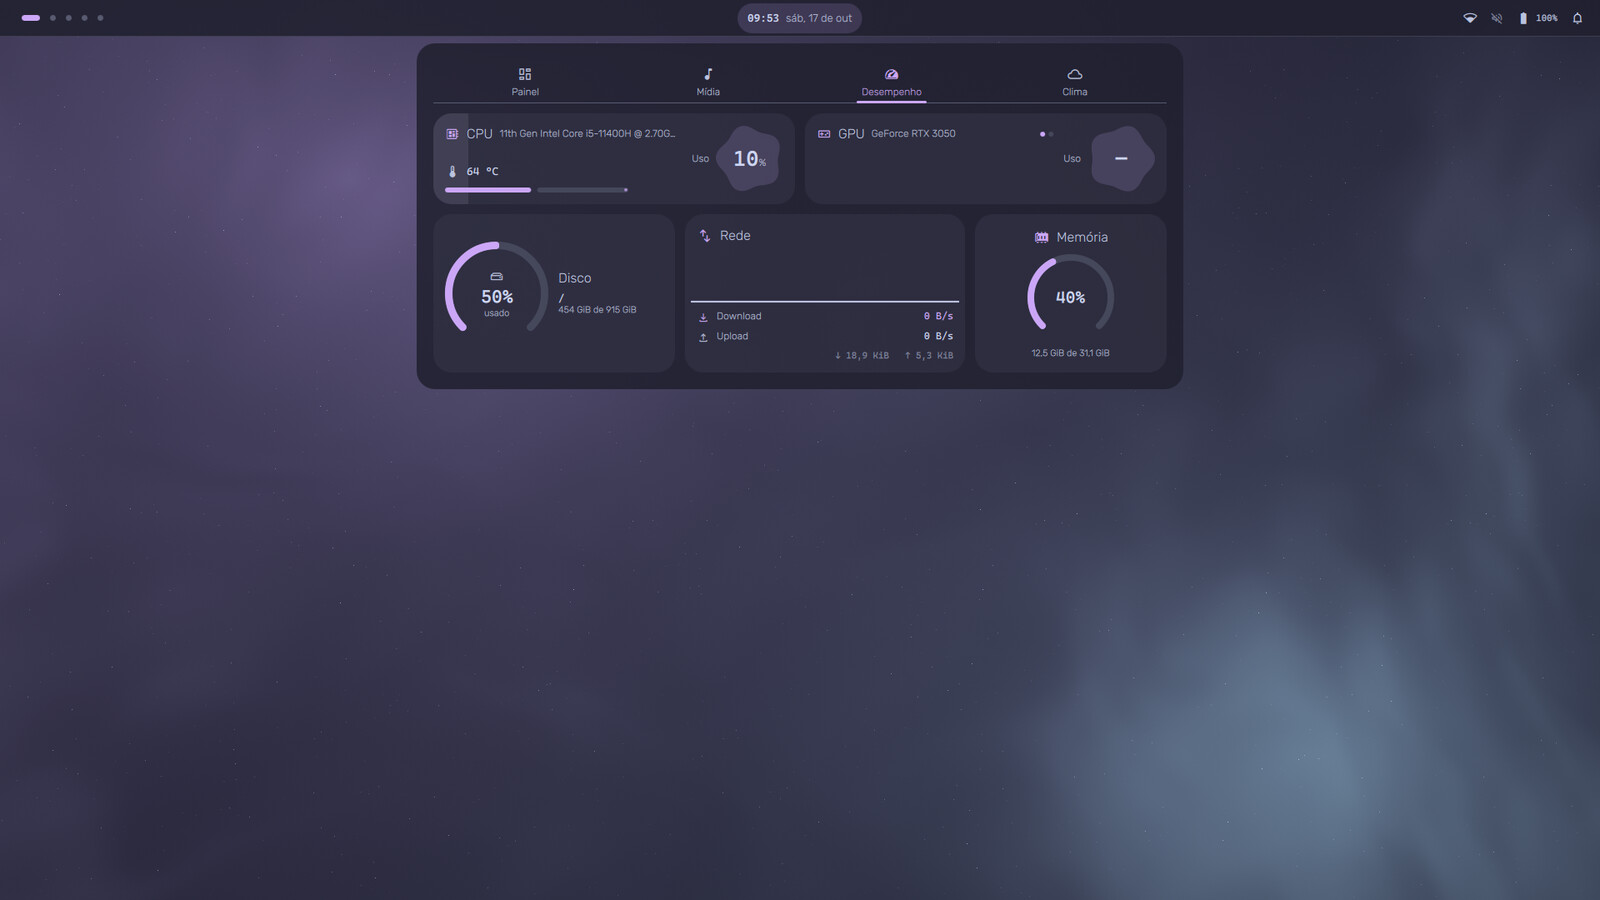
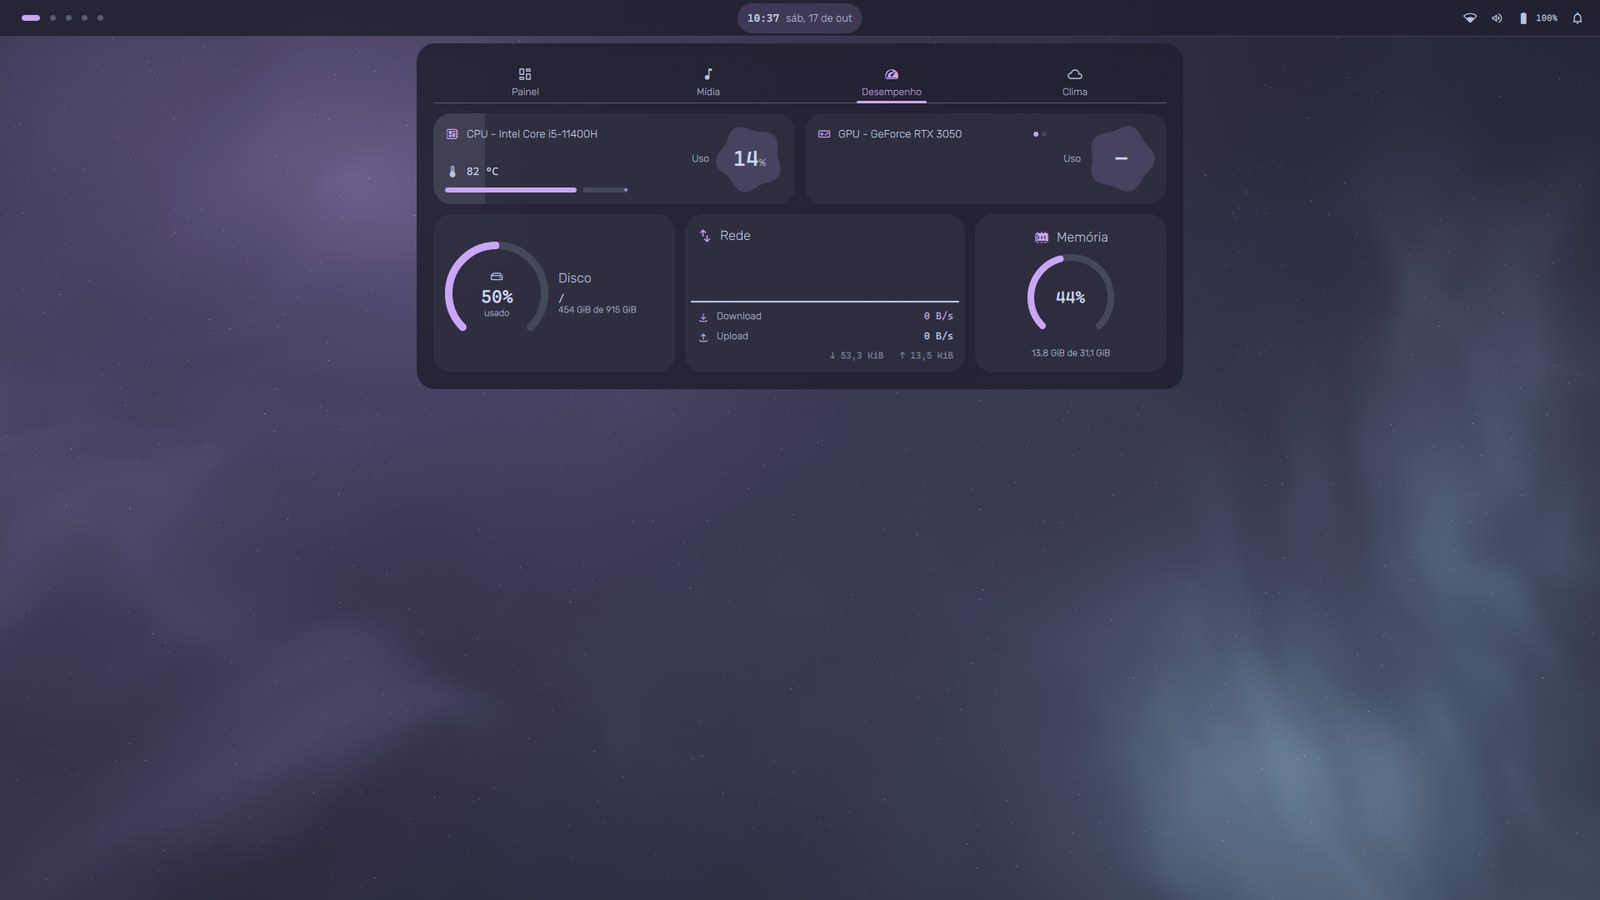
Desempenho: títulos curtos nos cards de CPU e GPU

diff --git a/features/dashboard/state/PerformanceState.qml b/features/dashboard/state/PerformanceState.qml
@@ -11,8 +11,7 @@ Singleton {
     id: root
 
     // CPU
-    readonly property string cpuModel: SystemStats.cpuModel.replace(/\((R|TM)\)/g, "").replace(/ CPU/, "") || "Processador"
-    readonly property string cpuThreads: SystemStats.cpuThreads ? `${SystemStats.cpuThreads} threads` : ""
+    readonly property string cpuModel: shortCpu(SystemStats.cpuModel)
     readonly property real cpuUsage: SystemStats.cpuUsage
     readonly property bool hasTemp: isFinite(SystemStats.cpuTemp)
     readonly property string cpuTempText: hasTemp ? `${Math.round(SystemStats.cpuTemp)} °C` : ""
@@ -51,6 +50,17 @@ Singleton {
     readonly property int gpuIndex: gpuPick(gpus, gpuCard)
     readonly property var gpu: gpus[gpuIndex] ?? null
 
+    // O nome da CPU sem o que não ajuda no título: (R)/(TM), a geração
+    // ("11th Gen"), "CPU", "Processor", "N-Core"/"Six-Core" e a frequência.
+    function shortCpu(model: string): string {
+        return model.replace(/\((R|TM)\)/g, "").replace(/\b\d+(st|nd|rd|th) Gen\b/, "").replace(/\b\w+-Core\b/, "").replace(/\b(CPU|Processor)\b/g, "").replace(/@.*$/, "").replace(/\s+/g, " ").trim() || "Processador";
+    }
+
+    // O nome da GPU sem o fabricante da NVIDIA e o sufixo "Laptop GPU".
+    function shortGpu(name: string): string {
+        return name.replace(/\((R|TM)\)/g, "").replace(/^NVIDIA /, "").replace(/ Laptop GPU$/, "").replace(/\s+/g, " ").trim() || "GPU";
+    }
+
     // Uma GPU do SystemStats para o card: com uso, "Uso" e a %; sem uso (a
     // Intel sem fdinfo do DRM), "Clock" e os MHz, com o véu em freq/maxFreq; em
     // repouso, "Em repouso", véu vazio e sem temperatura (não acorda a placa).
@@ -61,7 +71,7 @@ Singleton {
         const hasTemp = !asleep && isFinite(g.temp);
         return {
             card: g.card,
-            name: g.name.replace(/^NVIDIA /, "").replace(/ Laptop GPU$/, ""),
+            name: shortGpu(g.name),
             dedicated: g.vendor !== "intel",
             asleep: asleep,
             hasData: hasUsage || hasFreq,

diff --git a/features/dashboard/ui/StatCard.qml b/features/dashboard/ui/StatCard.qml
@@ -5,8 +5,8 @@ import Quickshell.Widgets
 import qs.core.theme
 import qs.core.widgets
 
-// Card da aba Desempenho para a CPU e a GPU: o título numa linha (ícone, nome
-// e detalhe), um véu claro da esquerda até `fraction`, o valor grande à
+// Card da aba Desempenho para a CPU e a GPU: o título numa linha (ícone e texto, cortado com
+// "…" se não couber), um véu claro da esquerda até `fraction`, o valor grande à
 // direita com a bolha que muda de forma atrás e a temperatura com a barrinha
 // embaixo (some sem leitura). Com `clickable`, o clique emite `swapped` (quem
 // usa troca o que mostra na hora; cada clique conta) e o conteúdo novo
@@ -17,7 +17,6 @@ Surface {
 
     property string icon: ""
     property string title: ""
-    property string subtitle: ""
     property real fraction: 0
     property string label: ""
     property string value: ""
@@ -132,20 +131,9 @@ Surface {
             }
 
             Txt {
-                id: titleText
-
                 anchors.verticalCenter: parent.verticalCenter
+                width: parent.width - titleIcon.width - (dotsRow.visible ? dotsRow.width + parent.spacing : 0) - parent.spacing * 2
                 text: root.title
-                font.pixelSize: ThemeManager.font.large
-                font.weight: Font.DemiBold
-            }
-
-            Txt {
-                anchors.verticalCenter: parent.verticalCenter
-                width: parent.width - titleIcon.width - titleText.width - (dotsRow.visible ? dotsRow.width + parent.spacing : 0) - parent.spacing * 2
-                text: root.subtitle
-                muted: true
-                font.pixelSize: ThemeManager.font.small + 1
             }
 
             Row {

diff --git a/tests/performance.test.js b/tests/performance.test.js
@@ -7,6 +7,22 @@ function run(t) {
     const intel = gpu({ card: "card0", vendor: "intel", name: "Intel (integrada)", freq: 1400, maxFreq: 1450 });
     const asleep = gpu({ state: "suspended" });
 
+    t.test("performance: nomes curtos da CPU", () => {
+        t.eq(P.shortCpu("11th Gen Intel(R) Core(TM) i5-11400H @ 2.70GHz"), "Intel Core i5-11400H");
+        t.eq(P.shortCpu("AMD Ryzen 5 2600X Six-Core Processor"), "AMD Ryzen 5 2600X");
+        t.eq(P.shortCpu("AMD Ryzen 7 5800X 8-Core Processor"), "AMD Ryzen 7 5800X");
+        t.eq(P.shortCpu("Intel(R) Core(TM) i7-8700 CPU @ 3.20GHz"), "Intel Core i7-8700");
+        t.eq(P.shortCpu("13th Gen Intel(R) Core(TM) i7-13700K"), "Intel Core i7-13700K");
+        t.eq(P.shortCpu(""), "Processador", "sem nome: o de reserva");
+    });
+
+    t.test("performance: nomes curtos da GPU", () => {
+        t.eq(P.shortGpu("NVIDIA GeForce RTX 3050 Laptop GPU"), "GeForce RTX 3050");
+        t.eq(P.shortGpu("Intel UHD Graphics"), "Intel UHD Graphics");
+        t.eq(P.shortGpu("Intel(R) UHD Graphics 630"), "Intel UHD Graphics 630");
+        t.eq(P.shortGpu(""), "GPU", "sem nome: o de reserva");
+    });
+
     t.test("performance: GPU com uso", () => {
         const v = P.gpuView(nvidia);
         t.eq([v.card, v.name, v.dedicated, v.asleep, v.hasData, v.label, v.value, v.unit], ["card1", "GeForce RTX 3050", true, false, true, "Uso", "37", "%"]);

diff --git a/features/dashboard/ui/PerformancePage.qml b/features/dashboard/ui/PerformancePage.qml
@@ -69,8 +69,7 @@ Item {
                 Layout.fillHeight: true
                 Layout.preferredWidth: 1
                 icon: Icons.cpu
-                title: "CPU"
-                subtitle: [PerformanceState.cpuModel, PerformanceState.cpuThreads].filter(x => x).join(" · ")
+                title: `CPU - ${PerformanceState.cpuModel}`
                 fraction: PerformanceState.cpuUsage
                 label: "Uso"
                 value: `${Math.round(cpuNumber.shown * 100)}`
@@ -94,8 +93,7 @@ Item {
                 Layout.preferredWidth: 1
                 visible: PerformanceState.showGpu
                 icon: Icons.gpu
-                title: "GPU"
-                subtitle: gpu?.name ?? "Nenhuma GPU encontrada"
+                title: `GPU - ${gpu?.name ?? "nenhuma encontrada"}`
                 fraction: gpu?.fraction ?? 0
                 label: gpu?.label ?? ""
                 value: gpu?.unit === "%" ? `${Math.round(gpuNumber.shown * 100)}` : gpu?.value ?? "—"
